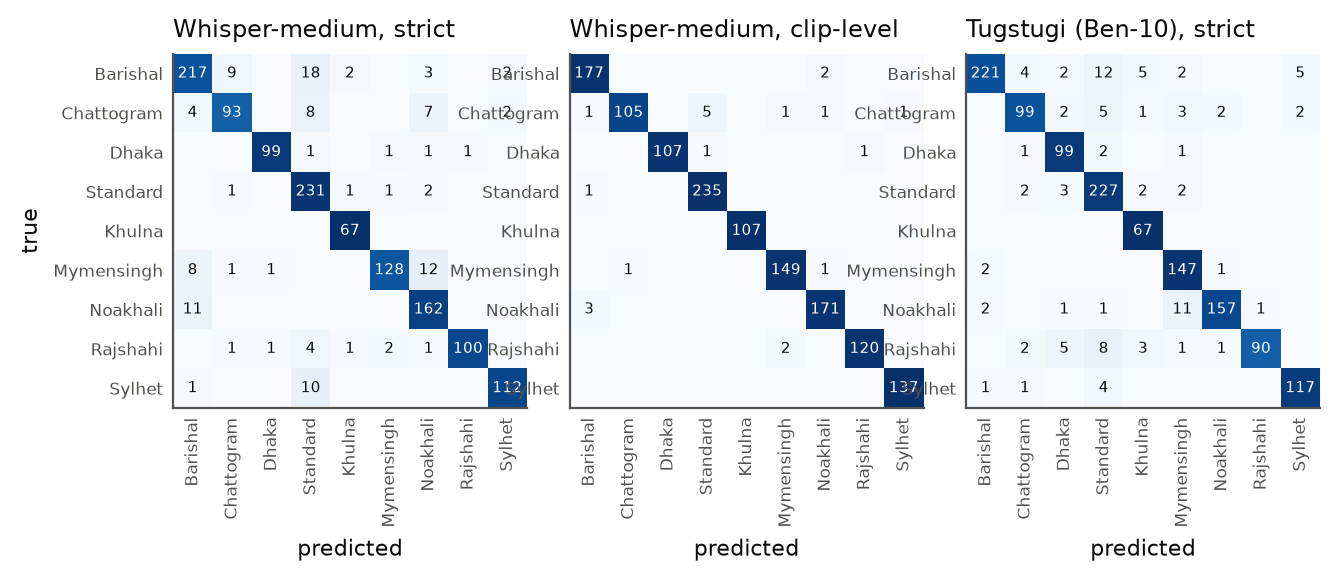
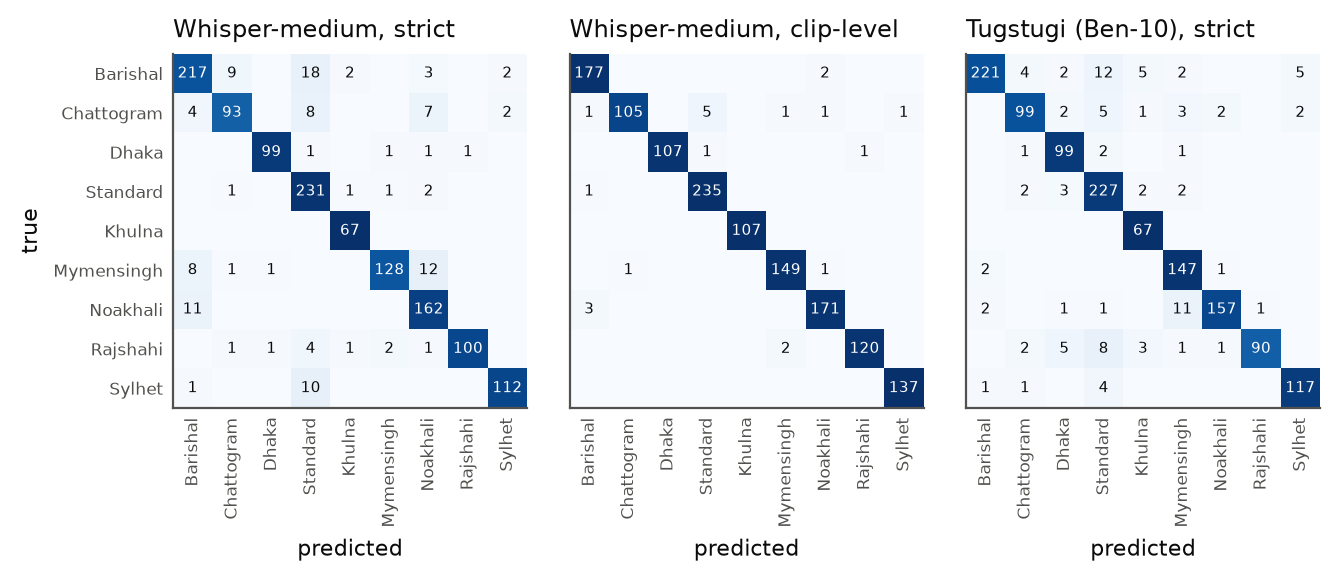
Public demo address; fix overlapping labels in the confusion figure

diff --git a/app/embed.html b/app/embed.html
@@ -1,3 +1,3 @@
 <!DOCTYPE html>
-<html lang="en"><head><meta charset="utf-8"><meta http-equiv="refresh" content="0; url=https://towfiqueelahe6--beyond-words.modal.run"><title>Beyond Words demo</title></head>
-<body><p>The demo moved. The full page for your own server is the React build from the beyond-words-web repository; the Gradio page is at <a href="https://towfiqueelahe6--beyond-words.modal.run">towfiqueelahe6--beyond-words.modal.run</a>.</p></body></html>
+<html lang="en"><head><meta charset="utf-8"><meta http-equiv="refresh" content="0; url=https://beyondwords.towfiqueelahe.com"><title>Beyond Words demo</title></head>
+<body><p>The demo moved to <a href="https://beyondwords.towfiqueelahe.com">beyondwords.towfiqueelahe.com</a>.</p></body></html>

diff --git a/make_results_figures.py b/make_results_figures.py
@@ -149,7 +149,9 @@ def confusions():
                 if cm[i, j]:
                     ax.text(j, i, cm[i, j], ha="center", va="center", fontsize=5.5,
                             color=SURFACE if norm[i, j] > 0.55 else INK)
-        ax.set_xticks(range(9), short, fontsize=6, rotation=90); ax.set_yticks(range(9), short, fontsize=6)
+        ax.set_xticks(range(9), short, fontsize=6, rotation=90)
+        # class names only on the first panel: on the others they ran into the panel beside them
+        ax.set_yticks(range(9), short if ax is axes[0] else [], fontsize=6)
         ax.set_title(title, fontsize=8.5, loc="left"); ax.grid(False); ax.tick_params(length=0)
         ax.set_xlabel("predicted", fontsize=8)
     axes[0].set_ylabel("true", fontsize=8)

diff --git a/docs/reproducibility.md b/docs/reproducibility.md
@@ -77,7 +77,7 @@ on 93.6 % of pilot clips; the committed numbers use the T4 transcripts.
 | Summary table and figure | `summarize_phase6.py` → `reports/phase6/summary.csv`; `make_phase6_figures.py` → `reports/figures/phase6_models_split.pdf` |
 | Thesis dataset figures (Ch. 3) | `make_dataset_figures.py` → `reports/figures/dataset_*.pdf` (LTAS cached in `dataset_ltas.npz`; `--ltas-cache` re-plots) |
 | Thesis results figures (Ch. 5) | `dump_embeddings.py --checkpoint whisper_medium_best.pt --splits test` (Kaggle) → `embeddings_whisper_medium_ft_strict_test.npz`; then `make_results_figures.py` → `reports/figures/results_*.pdf`, `reports/phase6/metrics_all_models.csv`, `tsne_strict_test.npz` |
-| Public model and demo | `export_hf_model.py --checkpoint whisper_medium_best.pt --out checkpoints/hf_export/...` then `hf upload towfique-elahe/beyond-words-whisper-medium-did <dir> . --repo-type model`; demo served from `app/` by `modal deploy app/modal_app.py` → https://towfiqueelahe6--beyond-words.modal.run (free Gradio Spaces on Hugging Face need a PRO plan; `notebooks/demo_gradio_share.ipynb` is a temporary-link fallback) |
+| Public model and demo | `export_hf_model.py --checkpoint whisper_medium_best.pt --out checkpoints/hf_export/...` then `hf upload towfique-elahe/beyond-words-whisper-medium-did <dir> . --repo-type model`; API served from `app/` by `modal deploy app/modal_app.py` → https://towfiqueelahe6--beyond-words.modal.run; public page https://beyondwords.towfiqueelahe.com (free Gradio Spaces on Hugging Face need a PRO plan; `notebooks/demo_gradio_share.ipynb` is a temporary-link fallback) |
 | Demo text models | `lexical_did.py --transcripts transcripts/tugstugi_ben10.csv --manifest splits/manifest_split_strict_rel.csv --lexicon lexicons/indomain_tugstugi_ben10_strict.json --xlsr-probs reports/phase6/strict/whisper_medium_probs.csv --acoustic-tag whisper_medium --save-model app/models/lexical_tugstugi_ben10_strict.joblib` |
 | Microphone robustness check | `eval_mic_sim.py --model <HF export> --tag <tag>` → `reports/demo/mic_sim_<tag>.json` (clean vs simulated laptop microphone, with and without the inference fixes of `app/inference.py`) |
 | Microphone-robust model | `notebooks/kaggle_finetune_robust.ipynb` (T4; `finetune_xlsr.py --augment-chain channel`, strict split, 12 epochs) |

diff --git a/README.md b/README.md
@@ -6,7 +6,7 @@ Classifying regional Bangla accents from short audio clips. v2 replaces the orig
 
 > Thesis: *A Neural Network Approach to Classifying Bangla Accentual Diversity* — framed as a Dialect Identification (DID) task.
 
-> **Live demo:** [towfiqueelahe6--beyond-words.modal.run](https://towfiqueelahe6--beyond-words.modal.run): record, upload or type Bangla; sound route (microphone-robust Whisper-medium, see below), words route (Tugstugi Ben-10 transcript or typed text, regional word lists, TF-IDF) and their fusion. JSON API at `/api/health`, `/api/text`, `/api/audio` (see `app/server.py`); the React + shadcn/ui front end lives in its own repository, [beyond-words-web](https://github.com/towfique-elahe/beyond-words-web). Weights: [towfique-elahe/beyond-words-whisper-medium-did](https://huggingface.co/towfique-elahe/beyond-words-whisper-medium-did) (thesis model) and […-did-robust](https://huggingface.co/towfique-elahe/beyond-words-whisper-medium-did-robust) (served by the demo).
+> **Live demo:** [beyondwords.towfiqueelahe.com](https://beyondwords.towfiqueelahe.com): record, upload or type Bangla; sound route (microphone-robust Whisper-medium, see below), words route (Tugstugi Ben-10 transcript or typed text, regional word lists, TF-IDF) and their fusion. JSON API on Modal at `https://towfiqueelahe6--beyond-words.modal.run` (`/api/health`, `/api/text`, `/api/audio`, see `app/server.py`); the React + shadcn/ui front end lives in its own repository, [beyond-words-web](https://github.com/towfique-elahe/beyond-words-web). Weights: [towfique-elahe/beyond-words-whisper-medium-did](https://huggingface.co/towfique-elahe/beyond-words-whisper-medium-did) (thesis model) and […-did-robust](https://huggingface.co/towfique-elahe/beyond-words-whisper-medium-did-robust) (served by the demo).
 >
 > **Microphone robustness (`eval_mic_sim.py`, 30 strict-test clips per class, macro-F1):** clean / simulated laptop microphone / with level normalisation: thesis model 0.915 / 0.389 / 0.709; robust model (`finetune_xlsr.py --augment-chain channel`, strict split) 0.893 / 0.843 / 0.846. Full strict test split: 0.896 for the robust model against 0.919. Results in `reports/demo/`.
 >

diff --git a/app/README.md b/app/README.md
@@ -27,7 +27,7 @@ Tugstugi Ben-10 recogniser, TF-IDF + word lists) and exposes `GET /api/health`,
 `POST /api/text` and `POST /api/audio`; `app.py` is the Gradio page mounted at `/`;
 `inference.py` holds the shared audio preprocessing (decode any container, trim
 silence, normalise level to the training RMS, 5 s windows with 2.5 s hop);
-`modal_app.py` builds the container and deploys to https://towfiqueelahe6--beyond-words.modal.run
+`modal_app.py` builds the container and deploys the API to https://towfiqueelahe6--beyond-words.modal.run
 (`modal deploy app/modal_app.py`). `models/` holds the saved lexical classifier
-(`lexical_did.py --save-model`) and the fitted weights that combine it with the word lists and the sound (`tune_words_route.py`). The React front end in the separate [beyond-words-web](https://github.com/towfique-elahe/beyond-words-web) repository talks to the same API.
+(`lexical_did.py --save-model`) and the fitted weights that combine it with the word lists and the sound (`tune_words_route.py`). The React front end in the separate [beyond-words-web](https://github.com/towfique-elahe/beyond-words-web) repository talks to the same API. The public page is https://beyondwords.towfiqueelahe.com.
 The front matter above also lets the folder run as a Hugging Face Space (PRO plan needed for Gradio on free hardware).
